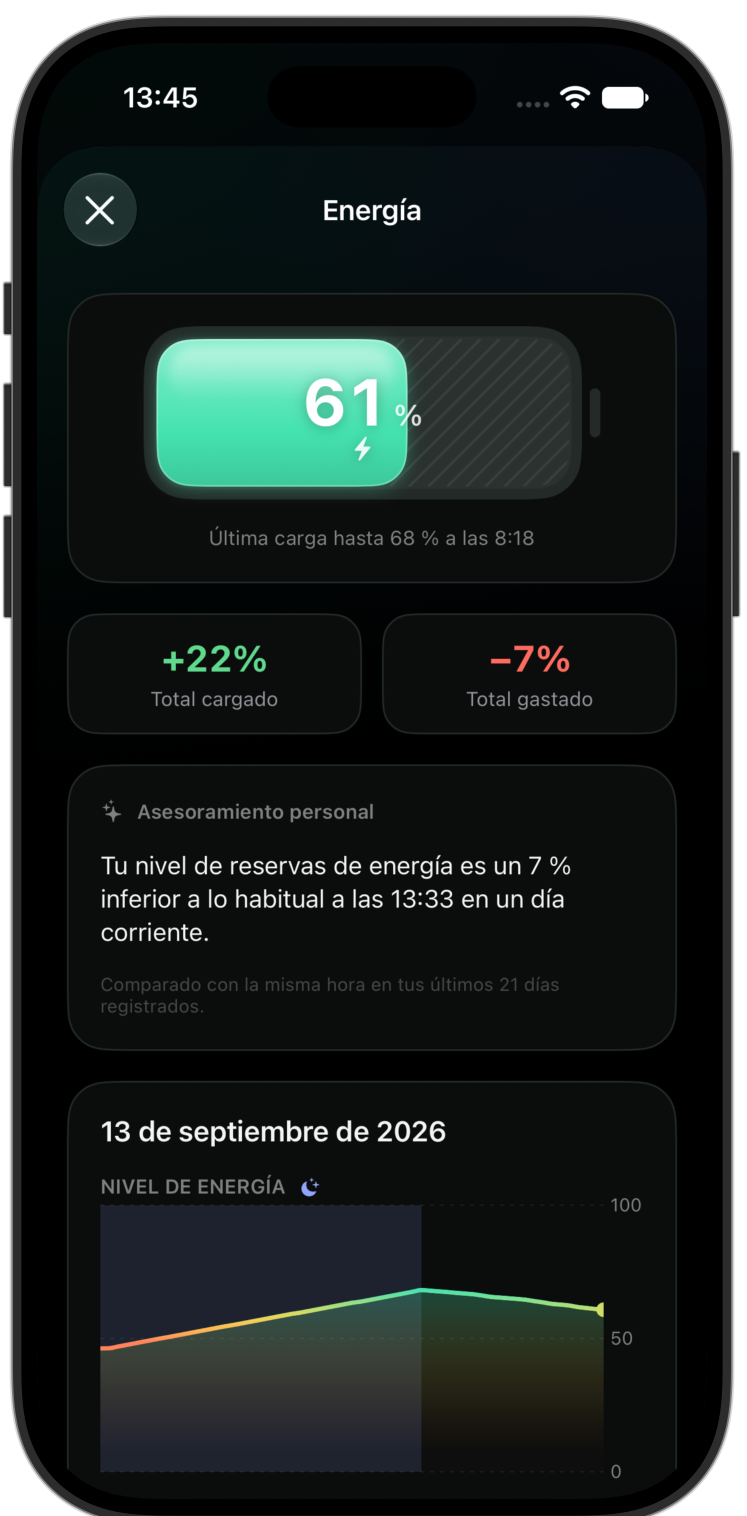
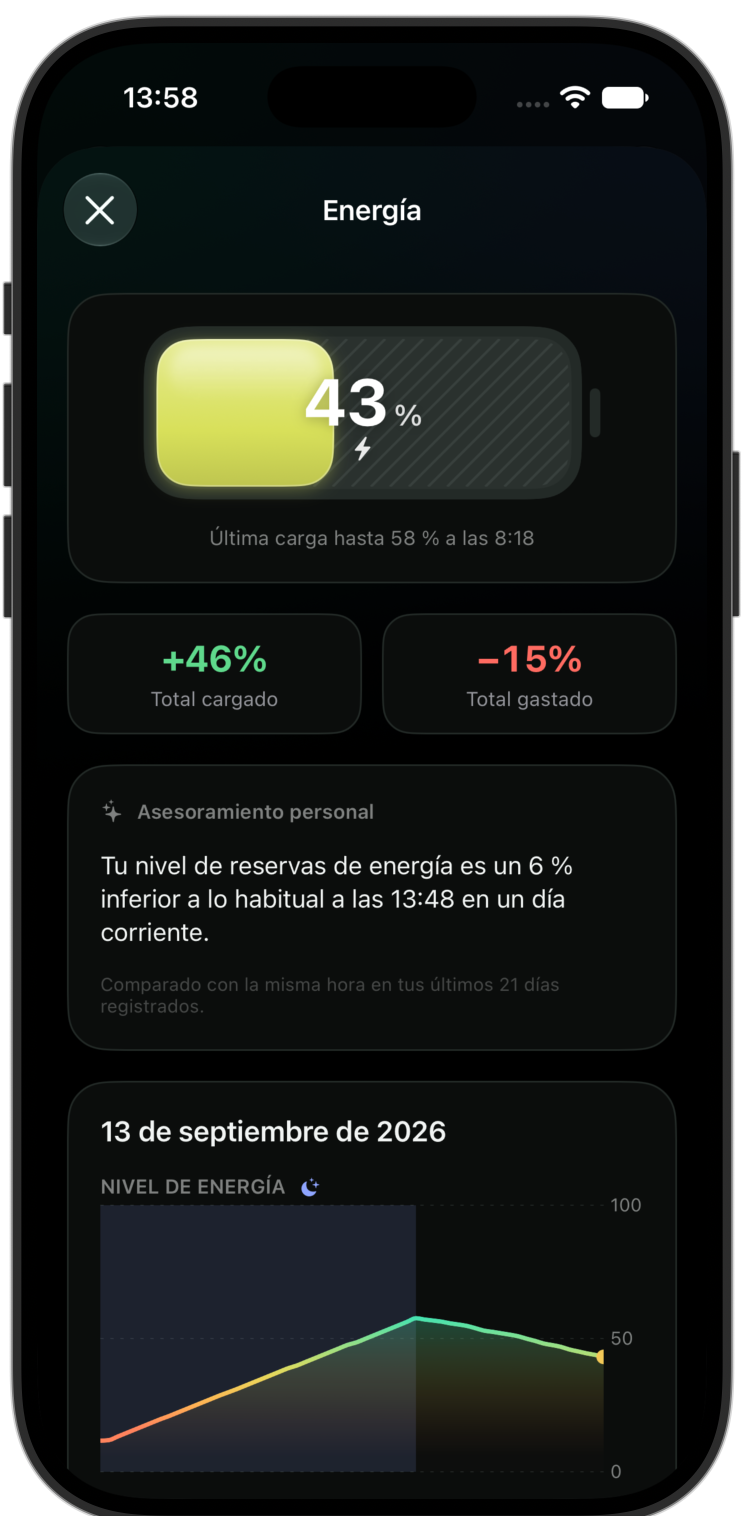
Stop the battery filling itself on a calm day
Version 3 granted a flat restoration whenever observed activation was under 25.
That was inert while the stress engine sat pinned near 96, but once activation
read correctly the condition held for most of a calm day and the level walked up
to 100 on its own. Fixing one end of that chain exposed the other.

Waking time can no longer net positive. Resting quietly slows the drain — the
baseline cost falls from 0.35 to 0.12 points per fifteen minutes — rather than
reversing it. Only the overnight ramp and naps add.

The stress drain threshold moves from 35 to 25 as well, because heart-rate
reserve puts an ordinary calm waking interval in the low twenties; measured from
35 most of the day cost nothing at all.

A regression test asserts that no waking interval charges the battery at any
activation level, and that a calm sixteen-hour day drains without emptying.

diff --git a/PulseCore/Sources/PulseCore/PerformanceEngines.swift b/PulseCore/Sources/PulseCore/PerformanceEngines.swift
@@ -127,6 +127,12 @@ public enum EnergyBankEngine {
     }
     /// One simulation step, returning the breakdown so the battery view can
     /// explain what charged and what drained it.
+    ///
+    /// Waking time can never net positive. Resting quietly *slows* the drain;
+    /// it does not reverse it. The previous version granted a flat restoration
+    /// whenever observed activation was low, which was harmless while stress
+    /// was pinned high but, once activation read correctly, applied for most of
+    /// a calm day and walked the level up to 100. Only sleep and naps add.
     public static func step(energy: Double, stress: Double?, load: Double, resting: Bool, minutes: Double = 15, napMinutes: Double = 0, asleepMinutes: Double = 0, sleepRate: Double = 0) -> EnergyStep {
         let energy = energy.isFinite ? Statistics.clamp(energy) : 0
         guard minutes.isFinite, minutes > 0 else { return .init(value: energy) }
@@ -135,19 +141,24 @@ public enum EnergyBankEngine {
         let napMinutes = napMinutes.isFinite ? min(minutes, max(0, napMinutes)) : 0
         let asleepMinutes = asleepMinutes.isFinite ? min(minutes, max(0, asleepMinutes)) : 0
         let factor = minutes / 15
-
-        let stressDrain = pow(max(0, (stress ?? 35) - 35) / 65, 1.5) * 2.5 * factor
-        let loadDrain = load * 0.1
-        // Sleeping suspends the waking baseline cost.
         let asleep = asleepMinutes >= minutes * 0.5
-        let baselineDrain = asleep ? 0 : 0.25 * factor
-        let restoration = (resting && (stress ?? 100) < 25 ? 0.9 * factor : 0)
-            + min(12, napMinutes * 0.15)
-            + asleepMinutes * max(0, sleepRate)
+
+        // Activation above a calm baseline costs energy. The threshold sits at
+        // 25 because heart-rate reserve puts an ordinary calm waking interval
+        // in the low twenties; measuring from 35 left most of the day free.
+        let stressDrain = asleep ? 0 : pow(max(0, (stress ?? 30) - 25) / 75, 1.5) * 3.0 * factor
+        let loadDrain = load * 0.1
+        // Sleeping suspends the waking cost; resting quietly reduces it.
+        let calm = resting && (stress ?? 100) < 25
+        let baselineDrain = asleep ? 0 : (calm ? 0.12 : 0.35) * factor
+        // Only real sleep restores: the overnight ramp, and naps.
+        let restoration = asleepMinutes * max(0, sleepRate) + min(12, napMinutes * 0.15)
 
         let value = Statistics.clamp(energy + restoration - stressDrain - loadDrain - baselineDrain)
-        return .init(value: value, restoration: restoration, stressDrain: asleep ? 0 : stressDrain, loadDrain: loadDrain, baselineDrain: baselineDrain, asleep: asleep)
+        return .init(value: value, restoration: restoration, stressDrain: stressDrain,
+                     loadDrain: loadDrain, baselineDrain: baselineDrain, asleep: asleep)
     }
+
     /// Points per asleep minute needed to climb from `start` to `target` across
     /// `minutes` of sleep. Keeps the overnight ramp tied to the scored night
     /// instead of inventing a fixed recharge speed.

diff --git a/PulseCore/Tests/PulseCoreTests/EnergyBankTests.swift b/PulseCore/Tests/PulseCoreTests/EnergyBankTests.swift
@@ -53,12 +53,45 @@ final class EnergyBankTests: XCTestCase {
         XCTAssertEqual(EnergyBankEngine.morning(previous: .nan, recovery: 80, sleep: 60), 73)
     }
     func testRestAndExerciseMoveInExpectedDirections() {
+        // Resting quietly drains more slowly than being busy, but still drains.
         let rest = EnergyBankEngine.step(energy: 50, stress: 10, load: 0, resting: true)
+        let busy = EnergyBankEngine.step(energy: 50, stress: 55, load: 0, resting: false)
         let workout = EnergyBankEngine.step(energy: 50, stress: nil, load: 50, resting: false)
-        XCTAssertGreaterThan(rest.value, 50)
-        XCTAssertLessThan(workout.value, 50)
+        XCTAssertLessThan(rest.value, 50)
+        XCTAssertGreaterThan(rest.value, busy.value)
+        XCTAssertLessThan(workout.value, busy.value)
         XCTAssertGreaterThan(EnergyBankEngine.step(energy: 50, stress: nil, load: 0, resting: false, napMinutes: 15).value, 50)
     }
+    /// Regression: a calm waking day used to walk the level up to 100. Resting
+    /// quietly must slow the drain, never reverse it.
+    func testWakingTimeNeverNetsPositiveWithoutASleep() {
+        for stress in [5.0, 15, 22, 24.9, 30, 45, 70] {
+            let step = EnergyBankEngine.step(energy: 60, stress: stress, load: 0, resting: true)
+            XCTAssertLessThanOrEqual(step.value, 60, "activation \(stress) should not charge the battery")
+            XCTAssertEqual(step.restoration, 0, "waking rest is not restoration")
+        }
+        // A whole calm day drains rather than fills.
+        var level = 85.0
+        for _ in 0..<64 {
+            level = EnergyBankEngine.step(energy: level, stress: 18, load: 0, resting: true).value
+        }
+        XCTAssertLessThan(level, 85)
+        XCTAssertGreaterThan(level, 40, "a calm day should not empty it either")
+
+        // A busy day drains faster than a calm one.
+        var busy = 85.0
+        for _ in 0..<64 {
+            busy = EnergyBankEngine.step(energy: busy, stress: 55, load: 0, resting: false).value
+        }
+        XCTAssertLessThan(busy, level)
+
+        // Naps and the overnight ramp are the only things that add.
+        XCTAssertGreaterThan(EnergyBankEngine.step(energy: 50, stress: nil, load: 0, resting: false, napMinutes: 15).value, 50)
+        XCTAssertGreaterThan(
+            EnergyBankEngine.step(energy: 20, stress: nil, load: 0, resting: false, asleepMinutes: 15, sleepRate: 0.125).value,
+            20)
+    }
+
     func testStepReportsWhyTheLevelMoved() {
         let workout = EnergyBankEngine.step(energy: 60, stress: 80, load: 30, resting: false)
         XCTAssertGreaterThan(workout.loadDrain, 0)

diff --git a/Documentation/ALGORITHMS.md b/Documentation/ALGORITHMS.md
@@ -207,3 +207,30 @@ personal median, then the fifth percentile of the day's actual samples.
 
 Regression test: `testStressReadsHeartRateReserveAndCannotPin` asserts that
 ordinary waking rates from 70 to 100 bpm never read as extreme activation.
+
+
+## Energy — version 4 (2026-09-13)
+
+Waking time can no longer net positive.
+
+Version 3 granted a flat restoration of 0.9 points per fifteen minutes whenever
+observed activation was below 25. That was inert while the stress engine was
+pinned near 96, but once activation read correctly the condition held for most
+of a calm day and the level walked up to 100 on its own.
+
+Resting quietly now *slows* the drain instead of reversing it: the waking
+baseline cost falls from 0.35 to 0.12 points per fifteen minutes while calm.
+Only real sleep adds — the overnight ramp and naps.
+
+The stress drain threshold also moves from 35 to 25, because heart-rate reserve
+puts an ordinary calm waking interval in the low twenties; measured from 35,
+most of the day was costing nothing at all.
+
+    stressDrain   = ((activation − 25) / 75)^1.5 × 3.0        (0 while asleep)
+    baselineDrain = 0.35, or 0.12 when calm                   (0 while asleep)
+    loadDrain     = 0.1 × workout zone load in the interval
+    restoration   = asleepMinutes × sleepRate + min(12, napMinutes × 0.15)
+
+Regression test: `testWakingTimeNeverNetsPositiveWithoutASleep` asserts that no
+waking interval charges the battery at any activation level, and that a calm
+sixteen-hour day drains without emptying.
